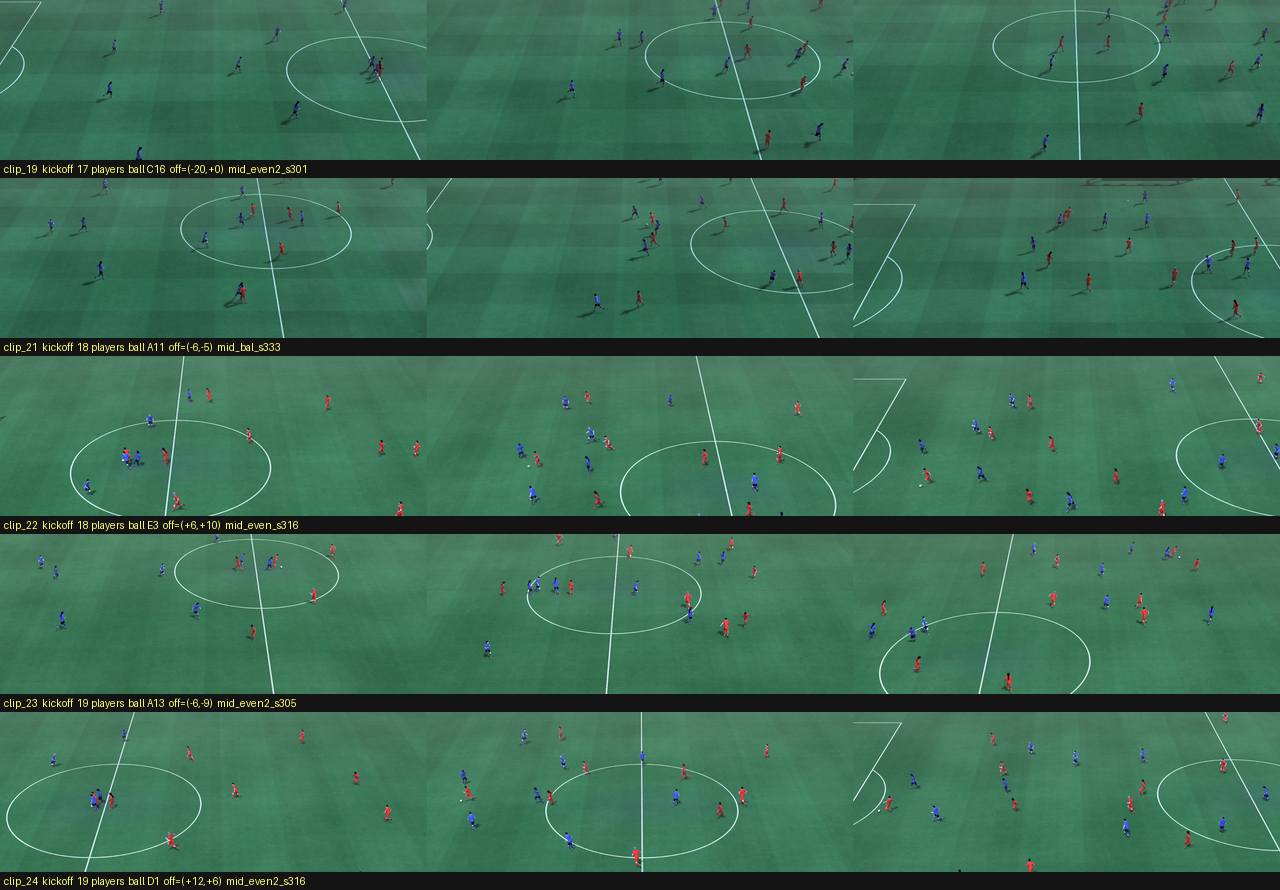
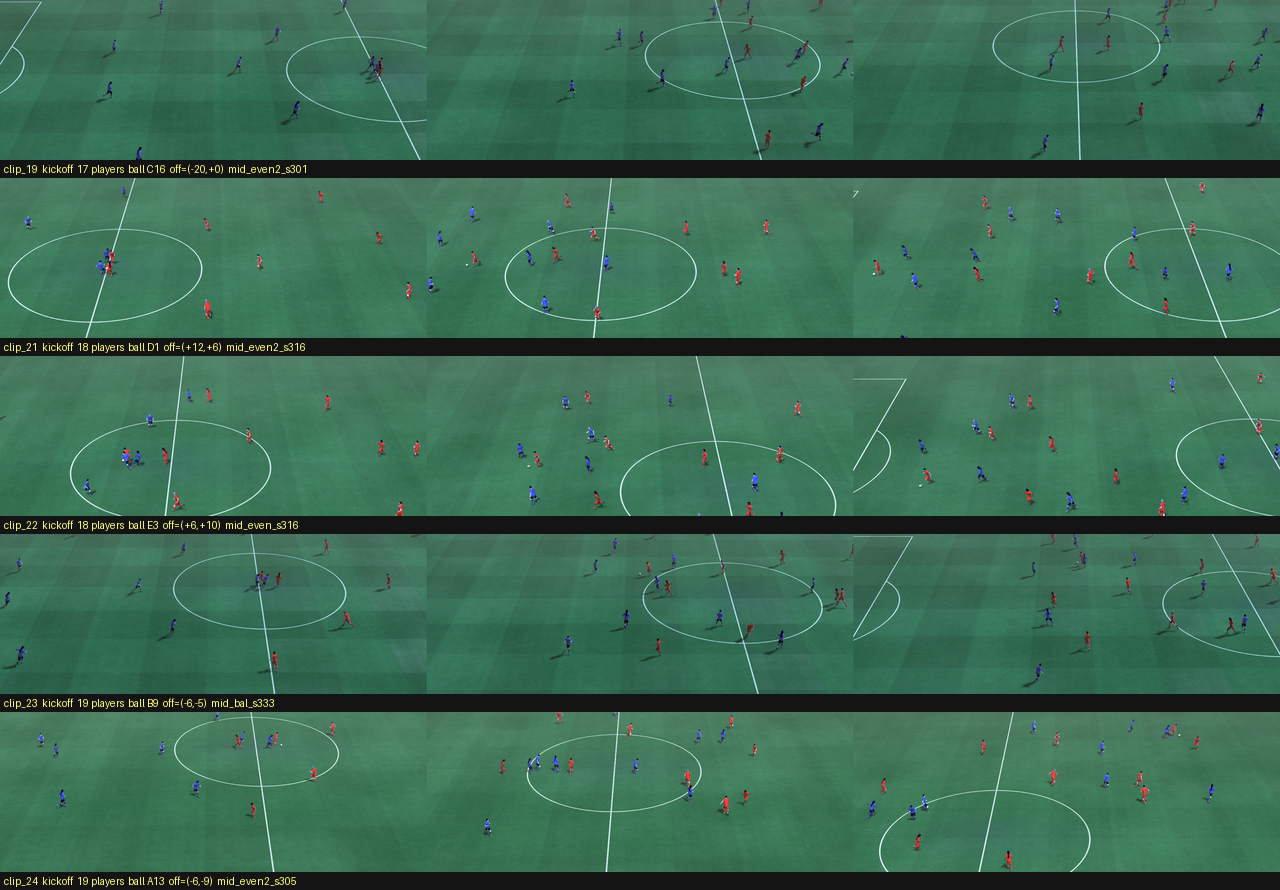
GEN3: balance the starting team, one blue and one red at every count level
Six of the twelve levels had both clips starting with the same side (8, 11,
12, 15, 18, 19; four of the five kick-offs were red). Balancing after the
fact is impossible without breaking the count, the situation quota or the
one-clip-per-match rule, so the constraint went into the assignment flow:
the pair key is now (match, count, starting team) and each count's sink is
split into two of capacity one. A level with two same-side starts is not an
expensive flow, it is an infeasible one.

Starting team is gen3_lib.start_possessor: whoever owns the ball on the
start frame, else the last team to own it (often loose mid-pass), else the
first team to take it during the clip (only reachable in the opening frames,
where the kick-off clips live).

Nothing else moved. 11 of 24 windows changed, 13 reused from the render
cache. verify_gen3 passes every check first round, audit clean first round:
counts exact, quota 5/5/5/9, 24 distinct matches, 24 distinct cells over all
six rows, framing floor 81.7%, mean coherence 0.734 -> 0.724. All 24 clips
still replay bit-identically (85,668 steps); reproducibility.csv refreshed.
ground_truth.csv gains start_team and start_team_colour.

diff --git a/GEN3/gen3_assign.py b/GEN3/gen3_assign.py
@@ -113,21 +113,32 @@ def solve(cands, counts, per_count, quota, iters=60, w_cell=900, w_row=260, w_co
     # away exactly the diversity the reweighting is trying to find: the pool holds every
     # grid row, yet a match whose count-12 windows include a row-E ball is invisible as a
     # row-E option if its most coherent count-12 window happens to sit in row C.
+    # The pair key carries the STARTING TEAM alongside the count, which is what enforces
+    # "one clip per level starts with each side". Splitting here rather than filtering
+    # afterwards keeps it a hard constraint inside the flow: the count node downstream is
+    # split into (count, team) sinks of capacity one each, so a solution in which both
+    # clips at a level start with the same side is not merely expensive, it is not a
+    # feasible flow at all. Note the team is a property of the WINDOW, not of the match —
+    # a match can supply a blue-start window at count 12 and a red-start one at count 14 —
+    # which is why it belongs in the pair key and not on the match node.
     by_pair = collections.defaultdict(list)
     for c in cands:
-        if c["count"] not in counts:
+        if c["count"] not in counts or c.get("startown", -1) < 0:
             continue
-        by_pair[(c["match"], c["count"])].append(c)
+        by_pair[(c["match"], c["count"], c["startown"])].append(c)
     pool = [min(v, key=lambda c: c["coh"]) for v in by_pair.values()]
     if not pool:
         return [], {"error": "no candidates"}
 
     matches = sorted({c["match"] for c in pool})
     kinds = sorted(quota)
+    teams = (0, 1)
+    per_slot = per_count // len(teams)
     m_idx = {m: i for i, m in enumerate(matches)}
-    c_idx = {c: i for i, c in enumerate(counts)}
+    slots = [(cnt, t) for cnt in counts for t in teams]
+    c_idx = {s: i for i, s in enumerate(slots)}
     kind_of = {c["match"]: c["kind"] for c in pool}
-    pairs = sorted({(c["match"], c["count"]) for c in pool})
+    pairs = sorted({(c["match"], c["count"], c["startown"]) for c in pool})
     p_idx = {p: i for i, p in enumerate(pairs)}
 
     S = 0
@@ -135,7 +146,7 @@ def solve(cands, counts, per_count, quota, iters=60, w_cell=900, w_row=260, w_co
     M0 = K0 + len(kinds)
     P0 = M0 + len(matches)
     C0 = P0 + len(pairs)
-    T = C0 + len(counts)
+    T = C0 + len(slots)
     N = T + 1
 
     def build(penalty):
@@ -151,23 +162,25 @@ def solve(cands, counts, per_count, quota, iters=60, w_cell=900, w_row=260, w_co
             f.add(S, K0 + i, quota[k], 0)
         for m in matches:
             f.add(K0 + kinds.index(kind_of[m]), M0 + m_idx[m], 1, 0)
-        for (m, cnt) in pairs:
+        for key in pairs:
+            m, cnt, own = key
             def priced(c):
                 return 1000 * c["coh"] + penalty(c)
-            c = min(by_pair[(m, cnt)], key=priced)
-            rep[(m, cnt)] = c
-            f.add(M0 + m_idx[m], P0 + p_idx[(m, cnt)], 1, int(round(priced(c))))
-            f.add(P0 + p_idx[(m, cnt)], C0 + c_idx[cnt], 1, 0)
-        for cnt in counts:
-            f.add(C0 + c_idx[cnt], T, per_count, 0)
+            c = min(by_pair[key], key=priced)
+            rep[key] = c
+            f.add(M0 + m_idx[m], P0 + p_idx[key], 1, int(round(priced(c))))
+            f.add(P0 + p_idx[key], C0 + c_idx[(cnt, own)], 1, 0)
+        for s in slots:
+            f.add(C0 + c_idx[s], T, per_slot, 0)
         return f, rep
 
     def extract(f, rep):
         out = []
-        for (m, cnt) in pairs:
+        for key in pairs:
+            m = key[0]
             for e in f.g[M0 + m_idx[m]]:
-                if e[0] == P0 + p_idx[(m, cnt)] and e[1] == 0:
-                    out.append(rep[(m, cnt)])
+                if e[0] == P0 + p_idx[key] and e[1] == 0:
+                    out.append(rep[key])
         return out
 
     def spread_cost(sel):
@@ -245,4 +258,16 @@ def _diagnose(pool, counts, per_count, quota, flow, target):
         "classes_short": {k: v for k, v in quota.items() if by_kind.get(k, 0) < v},
         "matches_per_count": dict(per_c),
         "counts_short": {c: per_c[c] for c in counts if per_c[c] < per_count},
+        # The starting-team split is the newest and tightest constraint, so name the
+        # (count, team) slots that have no supply at all — that is the usual reason a
+        # previously feasible pool stops being feasible.
+        "matches_per_count_team": {
+            f"{cnt}/{'blue' if t == 0 else 'red'}":
+                len({c["match"] for c in pool
+                     if c["count"] == cnt and c.get("startown") == t})
+            for cnt in counts for t in (0, 1)},
+        "count_team_slots_empty": [
+            f"{cnt}/{'blue' if t == 0 else 'red'}"
+            for cnt in counts for t in (0, 1)
+            if not any(c["count"] == cnt and c.get("startown") == t for c in pool)],
     }

diff --git a/GEN3/gen3.py b/GEN3/gen3.py
@@ -454,7 +454,8 @@ def _pool():
     plan = json.loads(PLAN.read_text())
     PIX = G.CACHE / "ballpix"
     absent = json.loads(ABSENT.read_text()) if ABSENT.exists() else {}
-    pool, skipped, blocked = [], 0, 0
+    pool, skipped, blocked, teamless = [], 0, 0, 0
+    owners = {}          # match -> owned_team track, read once from the sweep log
     for p in plan:
         cf, pf = COUNTS / f"{p['match']}.npz", PIX / f"{p['match']}.json"
         if not (cf.exists() and pf.exists()):
@@ -479,7 +480,16 @@ def _pool():
                 blocked += 1
                 continue
             px, py = pix[str(e)]
-            pool.append({"match": p["match"], "shape": p["shape"], "seed": p["seed"],
+            # Which team the clip starts with the ball. Read from the sweep log, which is
+            # camera-independent, so this costs nothing beyond one file read per match.
+            if p["match"] not in owners:
+                owners[p["match"]] = np.load(G.SWEEP / f"{p['match']}.npz")["owned_team"]
+            own = G.start_possessor(owners[p["match"]], w["start"], w["end"])
+            if own < 0:
+                teamless += 1
+                continue
+            pool.append({"startown": own,
+                         "match": p["match"], "shape": p["shape"], "seed": p["seed"],
                          "kind": p["kind"], "offset_x": p["offset_x"],
                          "offset_y": p["offset_y"], "start": w["start"], "end": w["end"],
                          "anchor": w["anchor"], "coh": w["coh"],
@@ -489,6 +499,8 @@ def _pool():
                          "px": px, "py": py, "cell": cell_of(px, py)})
     if blocked:
         print(f"  {blocked} windows excluded: the audit measured no ball at their start")
+    if teamless:
+        print(f"  {teamless} windows excluded: ball never owned, so no starting team")
     return pool, skipped
 
 
@@ -692,9 +704,15 @@ def cmd_trace(argv):
 
 # ══ phase 8: compose ═══════════════════════════════════════════════════════════
 HEADER = ("clip,situation,players_in_frame_last,players_in_play,players_hidden,"
+          "start_team,start_team_colour,"
           "ball_final_cell,final_px,final_py,ball_start_cell,start_px,start_py,"
           "offset_x,offset_y,shape,seed,match,start_frame,end_frame,n_frames,seconds,"
           "loose,apex,dnear,ball_path,coherence")
+
+# Which side starts the clip with the ball. The engine's left team is A, and
+# apply_gen3_kits paints A blue and B red — so this column names what a viewer sees, not
+# an engine index, and it moves if the kit palette ever does.
+TEAM_NAME = {0: ("A", "blue"), 1: ("B", "red")}
 
 
 def cmd_compose(argv):
@@ -713,6 +731,7 @@ def cmd_compose(argv):
         p["final_cell_measured"] = G.cell_of(fpx, fpy)
         rows.append(",".join(map(str, [
             p["clip"], p["kind"], p["count"], 22, 0,
+            *TEAM_NAME[p["startown"]],
             G.cell_of(fpx, fpy), round(fpx, 1), round(fpy, 1),
             G.cell_of(spx, spy), round(spx, 1), round(spy, 1),
             p["offset_x"], p["offset_y"], p["shape"], p["seed"], p["match"],

diff --git a/GEN3/gen3_lib.py b/GEN3/gen3_lib.py
@@ -597,6 +597,37 @@ def write_clip(frames, path):
     return path
 
 
+def start_possessor(owned_team, start, end):
+    """Which team the clip STARTS with the ball, as 0 (left/blue) or 1 (right/red).
+
+    `owned_team` is the sweep log's per-step possession, -1 while the ball is loose. The
+    observation is appended after each step, so log index i holds the state following step
+    i + 1 and frame f reads at f - 1.
+
+    Three cases, in order, because "who has the ball at the start" is not a single lookup:
+
+      1. Someone owns it on the start frame        -> that team
+      2. The ball is loose there (a pass in flight, a clearance) -> the last team to have
+         owned it, which is who the viewer sees as being in possession of the passage
+      3. Nobody has owned it yet — only possible in the opening frames of a match, which
+         is exactly where the kick-off clips live -> the first team to take it during the
+         clip, i.e. whoever kicks off
+
+    Returns -1 only if the ball is never owned across the whole window, which would make
+    the clip unassignable to a team; callers drop those.
+    """
+    i = max(start - 1, 0)
+    if owned_team[i] >= 0:
+        return int(owned_team[i])
+    before = owned_team[:i]
+    if (before >= 0).any():
+        return int(before[before >= 0][-1])
+    during = owned_team[i:max(end - 1, i + 1)]
+    if (during >= 0).any():
+        return int(during[during >= 0][0])
+    return -1
+
+
 def cell_of(px, py):
     c = min(max(int(px // CELL_W), 0), COLS - 1)
     r = min(max(int(py // CELL_H), 0), ROWS - 1)

diff --git a/GEN3/verify_gen3.py b/GEN3/verify_gen3.py
@@ -76,6 +76,20 @@ def check(picks):
     want("situation quota", kinds == G.SITUATION_QUOTA,
          f"got {kinds} want {G.SITUATION_QUOTA}")
 
+    # Starting team, checked per LEVEL rather than only in total. A 12/12 grand total is
+    # easy to hit while still leaving a level with two blue starts and another with two
+    # red, which is exactly the imbalance this constraint exists to remove.
+    by_count = {}
+    for p in picks:
+        by_count.setdefault(p["count"], []).append(p.get("startown", -1))
+    uneven = {c: v for c, v in by_count.items() if sorted(v) != [0, 1]}
+    want("each count has one blue-start and one red-start clip", not uneven,
+         f"uneven levels {uneven}" if uneven else "")
+    tot = sorted(p.get("startown", -1) for p in picks)
+    want("starting team is 12 blue / 12 red",
+         tot.count(0) == 12 and tot.count(1) == 12,
+         f"got blue {tot.count(0)} red {tot.count(1)}")
+
     matches = {p["match"] for p in picks}
     want("one clip per match", len(matches) == len(picks),
          f"{len(matches)} distinct matches")

diff --git a/GEN3/RESUME.md b/GEN3/RESUME.md
@@ -13,6 +13,7 @@ full engine run each.
 | Levels | end-frame player count **exactly** 8, 9, 10 ... 19 — one count per level, two clips each |
 | "Player" | anyone on the pitch **including goalkeepers**; officials render at 2% and are invisible, so they never count |
 | Situations | **5 corner, 5 goalkeeper throw, 5 kick-off, 9 open play**, scattered across the levels |
+| Starting team | of the two clips at each count, **one starts with blue (team A) and one with red (team B)** — 12/12 overall |
 | Ball | final-frame cell roughly uniform over the 16x6 grid — explicitly NOT the old centre pile-up, but still natural |
 | Format | 125 frames @ 25 fps = 5.0 s, 16x6 grid, noname, `full_visibility` + `split_1s_4s` from ONE render pair |
 | Quality | the whole point of the batch — physics right, nothing odd, no hidden players |
@@ -182,6 +183,27 @@ COUNT is the real throttle and `nice` is only a second line of defence.
     Consequence for the study design: a counterfactual pair is two matches from the same
     seed that differ in their scenario, compared from kick-off. There is no way to hold the
     first 2310 frames fixed and then remove a player.
+
+11. **The starting team is balanced per LEVEL, inside the flow, not by filtering.**
+    The first build let possession fall where it liked and six of the twelve levels came
+    out with both clips starting on the same side (8, 11, 12, 15, 18, 19 — four of the
+    five kick-offs were red). Balancing it afterwards is not possible: swapping one clip
+    breaks the count, the situation quota or the one-clip-per-match rule.
+
+    So the constraint went into `gen3_assign` itself. The pair key became
+    `(match, count, starting team)` and each count's sink was split into two of capacity
+    one, so a level with two same-side starts is not an expensive flow, it is not a
+    feasible one. The team belongs on the WINDOW and not the match: one match can supply
+    a blue-start window at count 12 and a red-start one at count 14.
+
+    "Starting team" is `gen3_lib.start_possessor`, in three cases, because it is not one
+    lookup: whoever owns the ball on the start frame; else the last team to own it (the
+    ball is often loose mid-pass); else — only reachable in the opening frames of a match,
+    where the kick-off clips live — the first team to take it during the clip.
+
+    Cost of the rebuild: 11 of 24 windows changed, 13 reused straight from the render
+    cache. Nothing else moved — 5/5/5/9 quota exact, counts exact, 24 distinct matches,
+    24 distinct cells across all six rows, and mean coherence 0.734 -> 0.724.
 
 ## Also done
 
